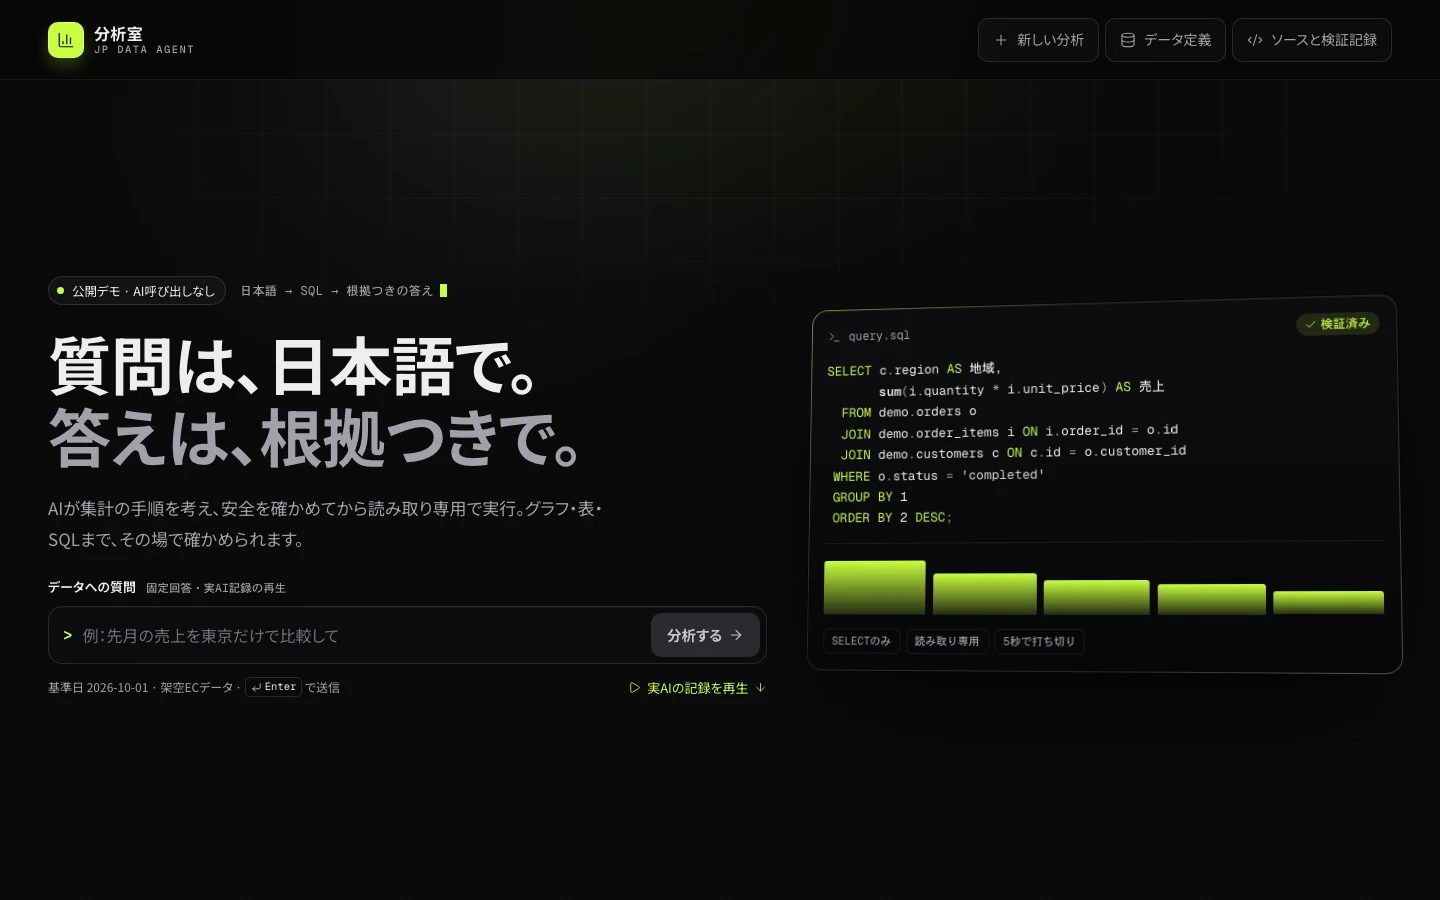
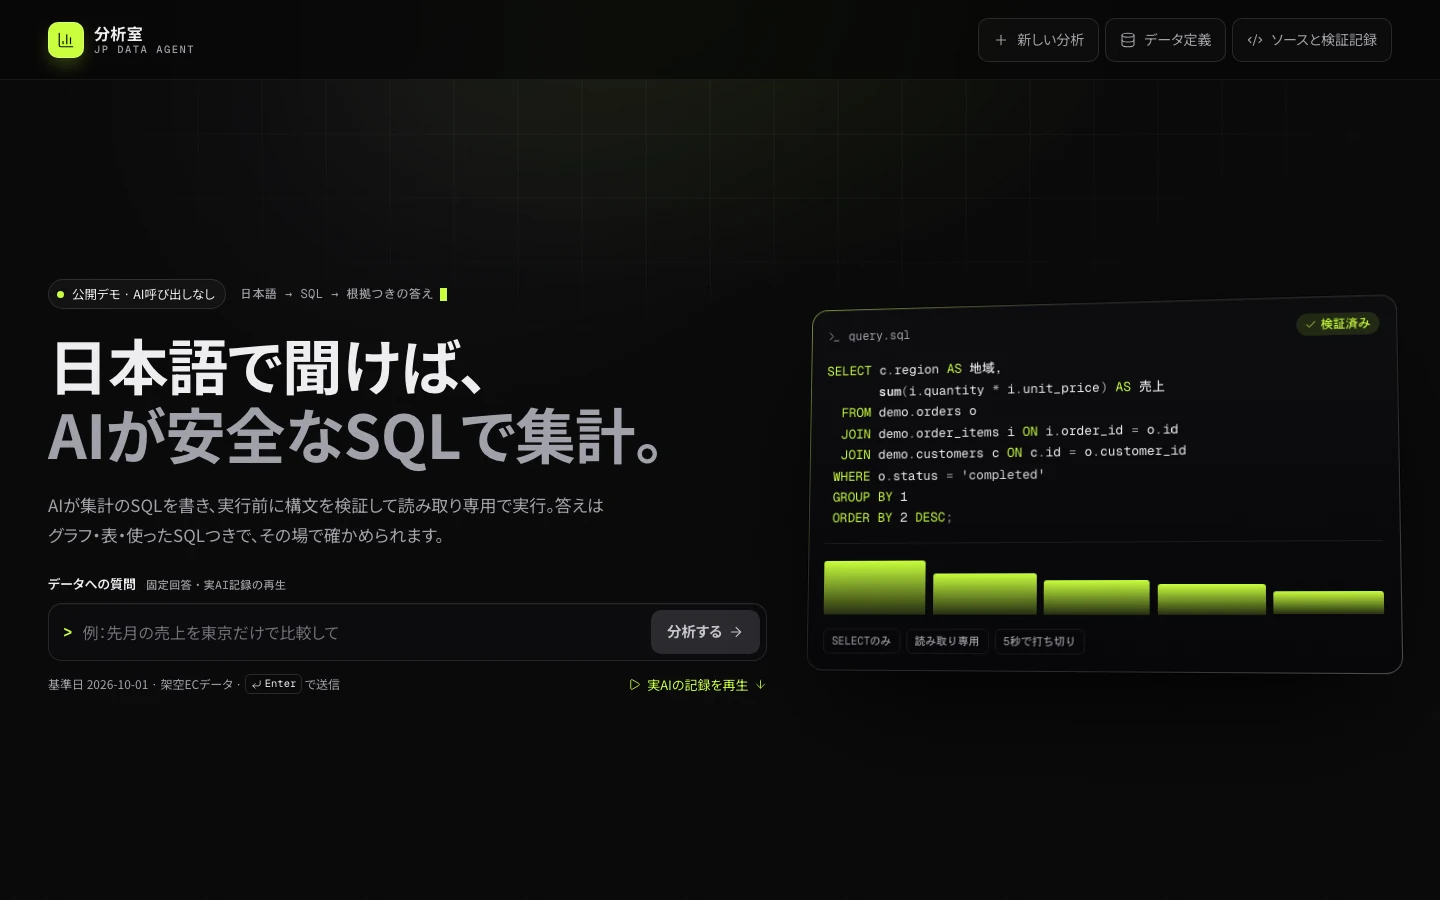
feat(ui): say what the tool does in the headline, and test that each line stays whole
「日本語で聞けば、AIが安全なSQLで集計。」 replaces the mood-only headline.
Each headline line breaks only at a marked phrase boundary, and the viewport
test now fails if a line wraps in the middle. GIF and screenshots re-recorded.

Claude-Session: https://claude.ai/code/session_01HunjrArfhw7rP79GZ1Vk1X

diff --git a/e2e/viewports.spec.ts b/e2e/viewports.spec.ts
@@ -89,7 +89,17 @@ async function measure(page: Page) {
         );
       })
       .map((el) => el.className || el.tagName);
+    // Each headline line is set on one line (no break in the middle).
+    const brokenLines = [...document.querySelectorAll('.hero h1 .line')]
+      .filter((el) => {
+        const s = getComputedStyle(el);
+        return (
+          el.getBoundingClientRect().height > parseFloat(s.lineHeight) * 1.5
+        );
+      })
+      .map((el) => el.textContent);
     return {
+      brokenLines,
       scrollWidth: document.documentElement.scrollWidth,
       header: { top: header.top, height: header.height },
       hero: { top: hero.top, height: hero.height },
@@ -131,6 +141,7 @@ for (const [width, height] of sizes) {
     const [brand, nav] = m.brandNav;
     expect(overlaps(brand, nav), 'ロゴと操作の重なり').toBe(false);
     expect(m.clipped, '欠けた文字').toEqual([]);
+    expect(m.brokenLines, '見出しの行の途中での折り返し').toEqual([]);
 
     // The answer screen must not overflow either.
     await page

diff --git a/app/ui.tsx b/app/ui.tsx
@@ -392,12 +392,15 @@ export default function Client({
               </span>
             </div>
             <h1>
-              質問は、日本語で。
-              <br />
-              <em>答えは、根拠つきで。</em>
+              <span className="line">日本語で聞けば、</span>
+              <em className="line">
+                AIが安全な
+                <wbr />
+                SQLで集計。
+              </em>
             </h1>
             <p className="lede">
-              AIが集計の手順を考え、安全を確かめてから読み取り専用で実行。グラフ・表・SQLまで、その場で確かめられます。
+              AIが集計のSQLを書き、実行前に構文を検証して読み取り専用で実行。答えはグラフ・表・使ったSQLつきで、その場で確かめられます。
             </p>
             <form
               onSubmit={(e) => {

diff --git a/app/globals.css b/app/globals.css
@@ -428,8 +428,15 @@ h1 em {
   font-style: normal;
   color: var(--muted);
 }
+/* Each line breaks only at the marked phrase boundary, never mid-word. */
+h1 .line {
+  display: block;
+  word-break: keep-all;
+  overflow-wrap: normal;
+}
 .lede {
   max-width: 34em;
+  word-break: auto-phrase;
   margin: 0;
   color: var(--muted);
   font-size: clamp(14px, min(1.6vw, 2.2svh), 17px);
@@ -758,7 +765,7 @@ h1 {
     grid-template-columns: minmax(0, 1.1fr) minmax(0, 0.9fr);
   }
   h1 {
-    font-size: clamp(40px, min(4.4vw, 7.4svh), 72px);
+    font-size: clamp(36px, min(4.2vw, 7.4svh), 62px);
   }
   .hero-art {
     display: block;
@@ -1666,7 +1673,7 @@ details[open] tbody tr {
     max-width: calc(2000px + 2 * var(--gutter));
   }
   h1 {
-    font-size: clamp(72px, min(4.2vw, 7.4svh), 100px);
+    font-size: clamp(64px, min(4vw, 7.4svh), 92px);
   }
   .lede {
     font-size: 23px;
